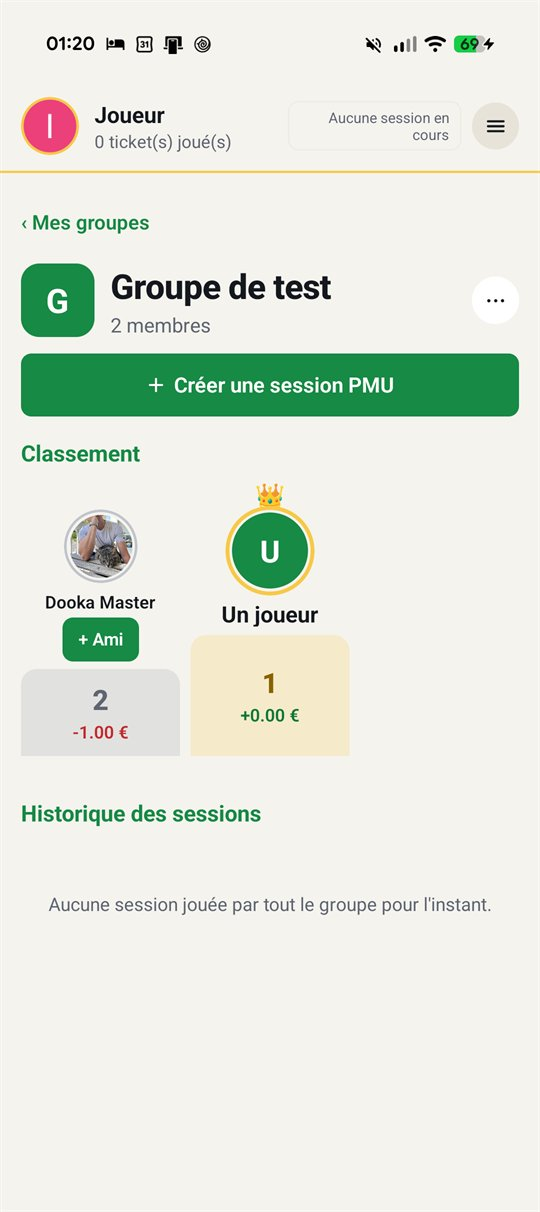
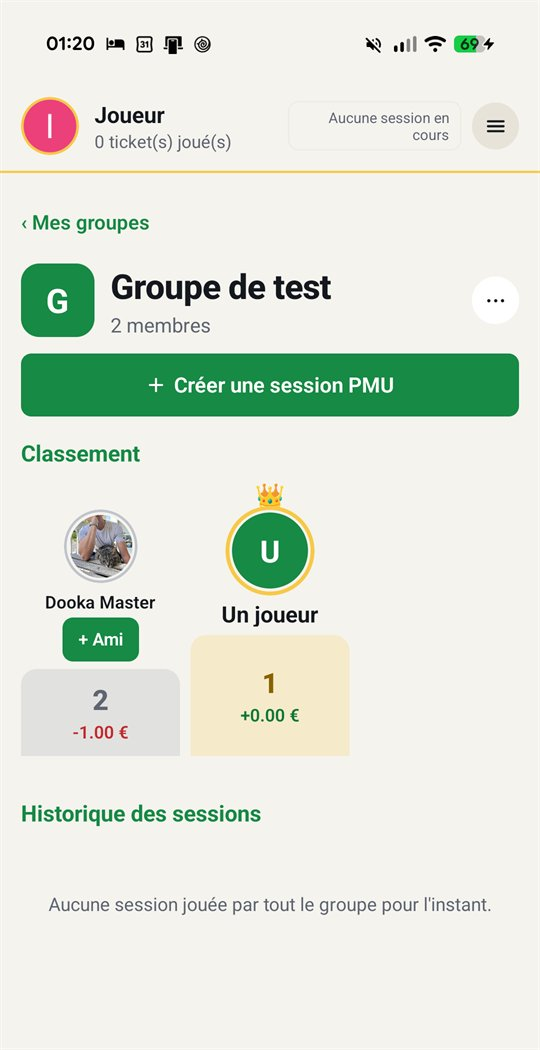
fix: la page debordait sur mobile, et le classement s'y disloquait
Verifie sur un Pixel (412 px de large), pas seulement calcule.

Quatre debordements, tous dus a des largeurs figees :

- les trois telephones du hero totalisaient 442 px de large pour 342 px
  utiles ; ils se partagent maintenant 29/32/29 % avec aspect-ratio pour
  la hauteur ;
- `minmax(290px, 1fr)` imposait un plancher de 290 px a chaque colonne de
  la grille, y compris dans un conteneur de 272 px — d'ou 18 px de
  debordement sur un ecran de 320 ;
- deux `min-width: 320px` reclamaient 368 px avec les marges ;
- le plancher du titre a 46 px etait trop haut pour les ecrans etroits.

`overflow-x: hidden` masquait tout ca au lieu de le corriger : la page ne
defilait pas horizontalement, elle se faisait rogner.

Deux defauts que seul l'appareil montrait :

- le bouton « Telecharger » revenait se coller au logo sur mobile, la nav
  masquee emportant le `margin-left: auto` avec elle ;
- la ligne du classement, remontee par `order` sur une rangee flex,
  donnait une bouillie sur quatre lignes. Elle passe en grille nommee.

Et le classement affichait « 0 € » sous un titre « Les plus gros gains » :
0040 compte une partie comme publiable des qu'elle a une photo OU un gain
nul, donc une partie perdante partagee remontait ici. Filtre a > 0.

groupes.jpg est recoupe a 2100 px de haut plutot que masque a l'aplat sur
toute sa fin : le cadre ne rogne plus les cotes et la bande creme morte
sous le podium disparait.

diff --git a/index.html b/index.html
@@ -80,6 +80,8 @@
 
   * { box-sizing: border-box; }
 
+  img, svg { max-width: 100%; }
+
   html, body { margin: 0; padding: 0; }
 
   body {
@@ -100,8 +102,6 @@
   }
 
   ::selection { background: var(--gold); color: var(--gold-ink); }
-
-  .wrap { max-width: var(--maxw); margin: 0 auto; padding-left: 24px; padding-right: 24px; }
 
   /* Le libellé en capitales monospace revient partout : hero, sections,
      colonnes du classement. Une seule classe pour ne pas le réécrire. */
@@ -163,6 +163,7 @@
   .btn-ink:hover { background: var(--green-link); color: #fff; }
   .btn-outline-gold { background: transparent; color: var(--gold-ink); border-color: rgba(30, 30, 30, .35); padding: 14px 22px; font-size: 16px; }
   .btn-outline-gold:hover { border-color: var(--gold-ink); color: var(--gold-ink); }
+
   /* ---------- Hero ---------- */
 
   .hero {
@@ -193,8 +194,12 @@
   }
   @keyframes dkb-pulse { 0%, 100% { opacity: 1; } 50% { opacity: .25; } }
 
+  /* Le plancher était à 46 px : « classement. » y mesure environ 290 px
+     pour 312 px utiles sur un écran de 360, et débordait dès qu'on
+     descendait plus bas. Le plancher tombe à 34 px et le palier
+     intermédiaire passe en vw, qui suit la largeur réelle. */
   .hero h1 {
-    font-size: clamp(46px, 6vw, 76px);
+    font-size: clamp(34px, 11vw, 76px);
     line-height: .96;
     font-weight: 800;
     letter-spacing: -3px;
@@ -302,7 +307,15 @@
   .card h3 { font-size: 17px; font-weight: 700; margin: 0; letter-spacing: -.2px; }
   .card p { font-size: 15px; line-height: 21px; color: var(--text-dim); margin: 0; }
 
-  .grid-3 { display: grid; grid-template-columns: repeat(auto-fit, minmax(290px, 1fr)); gap: 14px; }
+  /* Le `min(290px, 100%)` n'est pas de la coquetterie : `minmax(290px, 1fr)`
+     seul impose un plancher de 290 px à chaque colonne, y compris quand le
+     conteneur est plus étroit — sur un écran de 320 px il reste 272 px
+     utiles, et la grille débordait de 18 px sans que rien ne le signale. */
+  .grid-3 {
+    display: grid;
+    grid-template-columns: repeat(auto-fit, minmax(min(290px, 100%), 1fr));
+    gap: 14px;
+  }
   .grid-3.wide { gap: 22px; }
 
   /* ---------- Écran par écran ---------- */
@@ -411,6 +424,7 @@
     gap: 32px;
     flex-wrap: wrap;
   }
+  .cta-copy { flex: 1; min-width: min(320px, 100%); }
   .cta h2 { font-size: 40px; font-weight: 800; letter-spacing: -1.2px; margin: 0 0 10px; text-wrap: balance; }
   .cta p { font-size: 17px; line-height: 1.5; margin: 0; max-width: 46ch; }
 
@@ -431,7 +445,7 @@
   .foot-links { display: flex; gap: 18px; flex-wrap: wrap; }
   .foot-links a { font-size: 13px; color: var(--on-ink-dim); }
   .foot-links a:hover { color: var(--gold); }
-  .legal { flex: 1; min-width: 320px; display: flex; flex-direction: column; gap: 8px; }
+  .legal { flex: 1; min-width: min(320px, 100%); display: flex; flex-direction: column; gap: 8px; }
   .legal p { font-size: 13px; line-height: 1.5; margin: 0; }
   .legal strong { color: var(--on-ink); }
   .legal .warn { font-size: 11px; line-height: 1.45; }
@@ -455,19 +469,50 @@
     .hero { padding-top: 12px; }
     .hero-copy { padding-bottom: 34px; }
     .hero h1 { letter-spacing: -1.6px; }
-    .phones { flex: 1 1 100%; gap: 10px; padding-bottom: 34px; }
-    .phone-side { width: 132px; height: 270px; }
-    .phone-main { width: 158px; height: 322px; }
+
+    /* Les trois cadres étaient figés en pixels : 132 + 158 + 132 et deux
+       gouttières faisaient 442 px, pour 342 px utiles sur un écran de
+       390. Ils débordaient des deux côtés, et `overflow-x: hidden` le
+       cachait au lieu de le corriger — d'où l'impression que la page
+       « déborde » sans qu'elle défile.
+
+       Ils se partagent maintenant la largeur en pourcentage, et
+       `aspect-ratio` déduit la hauteur : la rangée tient dans son
+       conteneur quelle que soit la largeur, sans palier à retoucher. */
+    .phones { flex: 1 1 100%; min-width: 0; width: 100%; gap: 10px; padding-bottom: 34px; }
+    .phone-side, .phone-main { width: auto; height: auto; aspect-ratio: 200 / 406; }
+    .phone-side { flex: 0 1 29%; }
+    .phone-main { flex: 0 1 32%; }
+
+    /* La nav portait le `margin-left: auto` qui poussait le bouton à
+       droite. En la masquant, le bouton revenait se coller au logo. */
     .topnav { display: none; }
+    .topbar .btn-gold { margin-left: auto; }
     .sec { padding-top: 48px; }
     .sec-head h2 { font-size: 28px; }
     .cta h2 { font-size: 30px; letter-spacing: -.8px; }
-    .row { gap: 10px; padding: 14px 16px; }
-    .who { width: 100%; order: 2; }
-    .rank { order: 1; }
-    .gain { order: 3; margin-left: auto; width: auto; }
-    .jauge { order: 5; flex-basis: 100%; }
-    .jeu { order: 4; width: auto; }
+    /* Le remontage par `order` sur une rangée flex donnait une bouillie :
+       le rang seul sur sa ligne, le nom en dessous, puis le montant et le
+       jeu, puis la jauge. Une grille nommée dit ce qu'on veut voir —
+       rang à gauche sur toute la hauteur, nom et montant sur la première
+       ligne, bar et jeu sur la deuxième, jauge en pied. */
+    .row {
+      display: grid;
+      grid-template-columns: 32px 1fr auto;
+      grid-template-areas:
+        "rang qui   gain"
+        "rang jeu   jeu"
+        "barre barre barre";
+      column-gap: 12px;
+      row-gap: 6px;
+      align-items: center;
+      padding: 14px 16px;
+    }
+    .rank { grid-area: rang; align-self: start; }
+    .who { grid-area: qui; width: auto; }
+    .gain { grid-area: gain; width: auto; font-size: 18px; }
+    .jeu { grid-area: jeu; width: auto; text-align: left; }
+    .jauge { grid-area: barre; }
     .board-head, .board-note, .board-state { padding-left: 16px; padding-right: 16px; }
   }
 </style>
@@ -602,7 +647,7 @@
 
 <section class="cta">
   <div class="cta-inner">
-    <div style="flex:1;min-width:320px">
+    <div class="cta-copy">
       <h2>Ta bande t'attend au comptoir.</h2>
       <p>Gratuit, sans pub, sans abonnement. Un téléphone Android et quelques potes suffisent.</p>
     </div>
@@ -660,9 +705,17 @@
 
     var METAL = ["or", "argent", "bronze"];
 
-    function renderLeaderboard(rows) {
+    function renderLeaderboard(reponse) {
       var el = document.getElementById("leaderboard");
-      if (!rows || rows.length === 0) {
+
+      // public_top_gains compte une partie comme publiable dès qu'elle a
+      // une photo de ticket OU un gain nul (voir 0040) : une partie
+      // perdante partagée remonte donc ici à 0 €. Sous un titre « Les plus
+      // gros gains », c'est absurde — et la jauge, calculee sur un maximum
+      // nul, s'affichait vide sur toute la largeur.
+      var rows = (reponse || []).filter(function (r) { return Number(r.amount_won) > 0; });
+
+      if (rows.length === 0) {
         el.innerHTML = '<p class="board-state">Aucun gain partagé publiquement pour le moment.</p>';
         return;
       }
